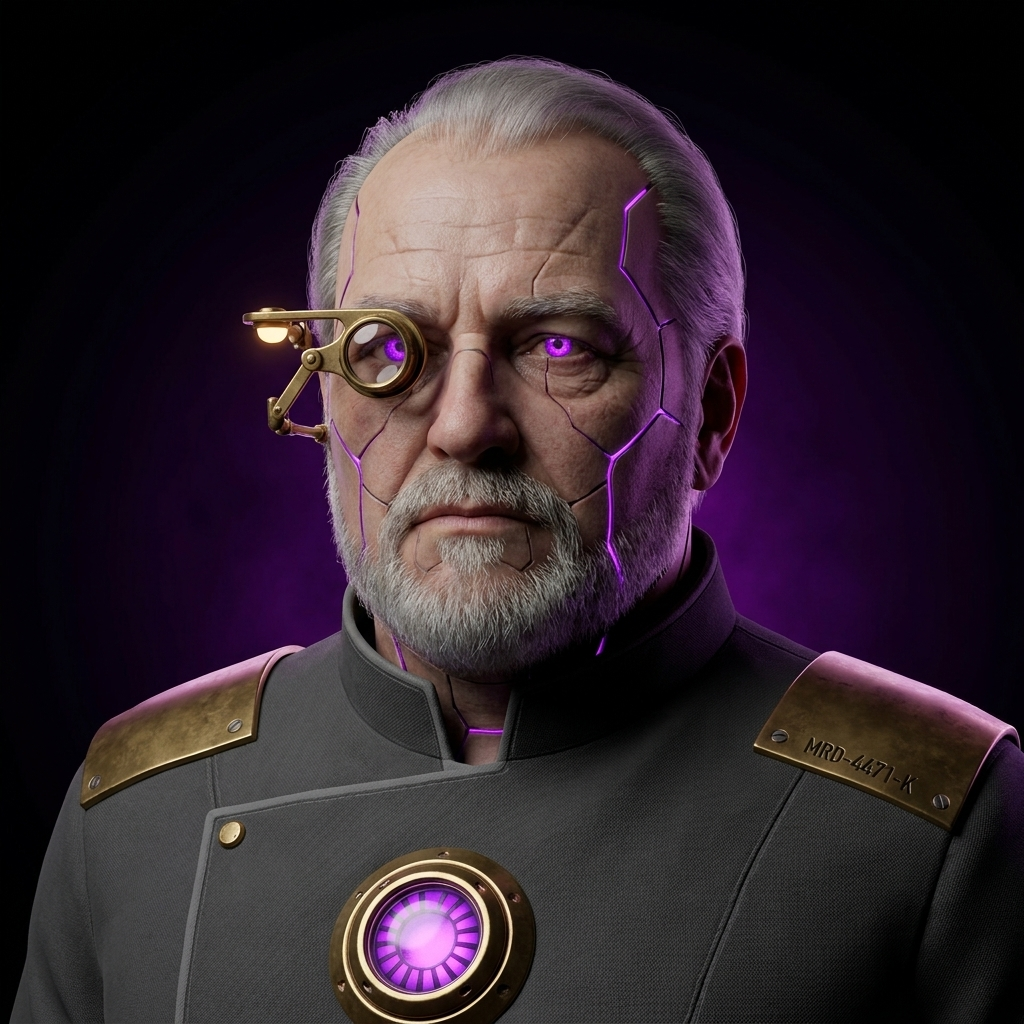
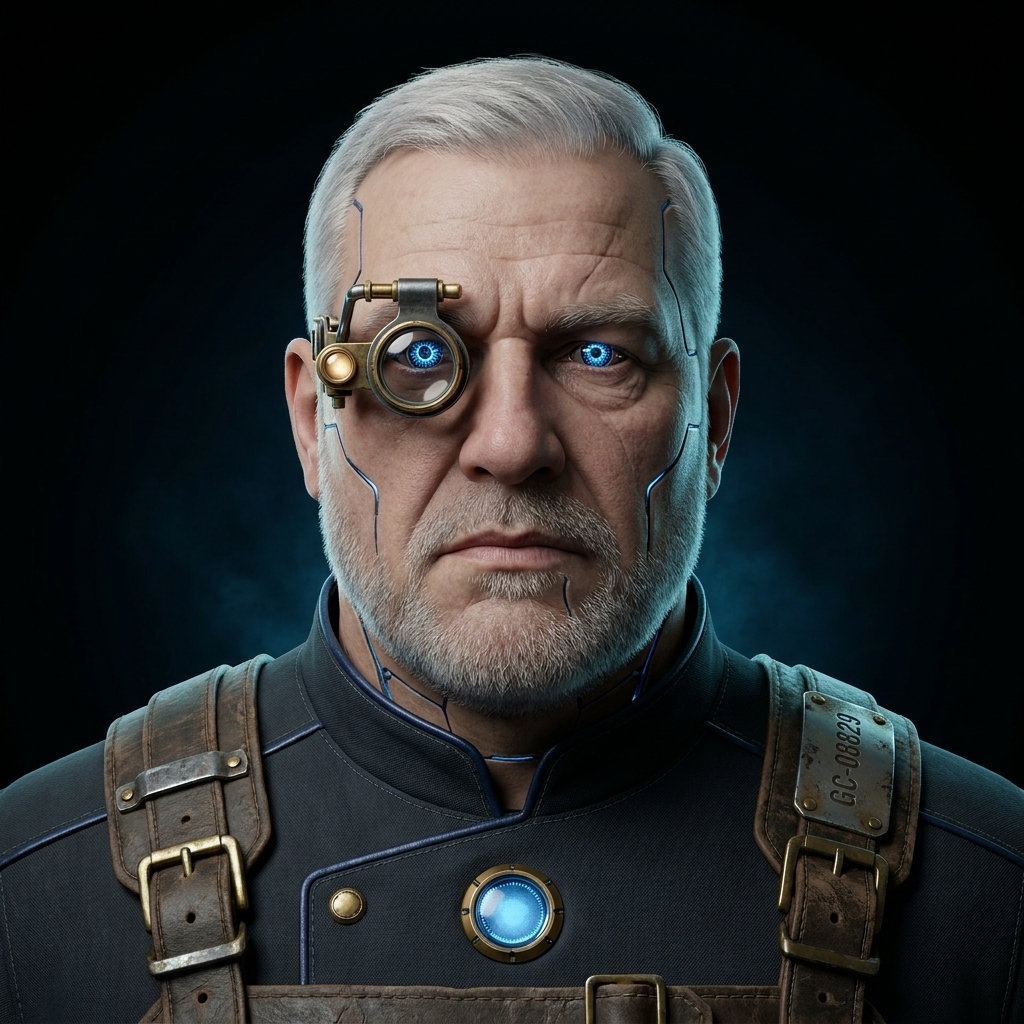
Everyone faces forward, and Meridian goes back to navy
POSE. Meridian shipped at -7.9 degrees of yaw. The master gate caught him; I
accepted a glow rebuild at 6/10 and his pose failure rode along with it. The real
gap is that cast-frames.py never checked pose at all, so an off-axis master
produced off-axis frames and the only gate that could see it was one that is easy
to override while chasing a different failure.

The frames are the shipped artefact, so they are now gated on pose directly, with
the same limits as the master gate (yaw 6, pitch 12, roll 4). It caught Meridian
on the first run at -8.9.

Measured in the INSTALLED bundle after the fix: all ten within +/-0.9 degrees of
yaw, none off-axis.

COLOUR. Meridian's render always matched his locked colour — 282 against 286, four
degrees. The wrong thing was the assignment: I had moved him to deep purple
#911EB4, which sits 17 degrees from Nebula's magenta with only 16 points of
lightness between them. That is the same collision the palette move existed to
eliminate, reintroduced by hand.

He goes back to navy #000075, where he started. It is 13 degrees from Pulsar's blue
but 33 points of lightness apart, which is exactly how this palette separates
colours — the same mechanism that lets strong red and light pink coexist at 15
degrees. It also suits General Counsel considerably better than purple.

Meridian and Nebula are now 63 degrees apart. Two pairs remain close in the
yellow/lime/orange corner — echo/vector at 23 degrees and vector/voyager at 27 —
[…]

diff --git a/macos/Pulsar/Sources/Models/DroneRegistry.swift b/macos/Pulsar/Sources/Models/DroneRegistry.swift
@@ -140,7 +140,7 @@ enum DroneRegistry {
               motion: MotionTrait(bobAmplitude: 2.0, bobFrequency: 0.9,  activeScale: 2.4)),  // deep grape #8040C0 — ΔE>34 from both pulsar-indigo + nebula-magenta
         Drone(category: "iris",     role: "Growth & Lifecycle",   color: Color(red: 0.980, green: 0.745, blue: 0.745), voice: "Tessa",   badge: "M",
               motion: MotionTrait(bobAmplitude: 2.2, bobFrequency: 1.15, activeScale: 2.45)), // coral-rose #F26178 — warm, rhythmic; ΔE76≥51 from every sibling
-        Drone(category: "meridian", role: "General Counsel",    color: Color(red: 0.569, green: 0.118, blue: 0.706), voice: "Ralph",   badge: "L",
+        Drone(category: "meridian", role: "General Counsel",    color: Color(red: 0.000, green: 0.000, blue: 0.459), voice: "Ralph",   badge: "L",
               motion: MotionTrait(bobAmplitude: 1.0, bobFrequency: 0.5,  activeScale: 2.3)),  // deep navy #24427A — near-still, slowest of the cast (counsel doesn't fidget); min ΔE76 41.8 vs pulsar-indigo
         Drone(category: "vector",   role: "Product Manager",  color: Color(red: 1.000, green: 0.882, blue: 0.098), voice: "Kore",     badge: "P",
               motion: MotionTrait(bobAmplitude: 1.8, bobFrequency: 0.8,  activeScale: 2.4)),  // signal red #FF3B1F — the only warm-red lane; min ΔE76 45.9 (nearest iris-coral), well clear of the 40 bar

diff --git a/scripts/cast-generate.py b/scripts/cast-generate.py
@@ -477,6 +477,25 @@ person who runs the room day to day, not the senior counsel who is consulted abo
 
 
 
+
+
+
+
+
+
+
+
+
+
+
+
+
+
+
+
+
+
+
 === AUTOMATED CORRECTION ===
 MATERIAL FAILURE — the body carried no warm metal and was rejected. Brass, bronze or aged copper is the cast's shared material signature: it must appear on the manufactured parts of the NECK, SHOULDERS AND COLLAR — plate edges, seam bolts, a jack housing, shoulder hardware — as a visible, unmistakable warm metal against the charcoal uniform. Not a faint tint, not a highlight; actual metal you could name.
 === END CORRECTION ===
@@ -533,6 +552,25 @@ HIS EYEBROWS ARE ORDINARY HUMAN HAIR. Absolutely NO metal brow plate, NO steel e
 NO plated brow ridge, NO hardware of any kind sitting on or replacing the eyebrows — the
 previous render put metal eyebrows on him and they must not appear. Natural grey-flecked
 eyebrows on skin. His machine seams stay on the temples, cheekbones and jaw, never the brow.
+
+
+
+
+
+
+
+
+
+
+
+
+
+
+
+
+
+
+
 
 
 
@@ -694,27 +732,27 @@ real texture and pores rather than a flawless finish. Weathered and used, not sh
 
 
 
-
-
-
-
-
-
-
-
-
-
-
-
-
-
-
 === AUTOMATED CORRECTION ===
+MATERIAL FAILURE — the body carried no warm metal and was rejected. Brass, bronze or aged copper is the cast's shared material signature: it must appear on the manufactured parts of the NECK, SHOULDERS AND COLLAR — plate edges, seam bolts, a jack housing, shoulder hardware — as a visible, unmistakable warm metal against the charcoal uniform. Not a faint tint, not a highlight; actual metal you could name.
+
+GLOW FAILURE — the last render was too bright and was rejected. Cut the emissive area back hard: keep the lit lining fine and thin, keep facial grooves narrow, and let the irises be the brightest thing. No broad blooms, no wide washes of colour, no glowing areas larger than a fingertip apart from the eyes.
+
+BACKGROUND GLOW FAILURE — the coloured haze behind this character flooded the frame and was rejected. Pull it back: the background reads BLACK first, with the glow concentrated close behind the head and shoulders and fading to pure black well before the frame edges. No wash across the whole picture.
+
 FACE COLLISION — the underlying facial geometry is too close to another character's and was rejected by a landmark-distance check. Rebuild the face from different bones: change the face SHAPE (long vs square vs heart vs round), the eye spacing and set, the nose length and bridge width, the mouth width, the jaw angle and the brow height. Two people with different hair and the same skull are the same person in a wig.
 
 The character it collided with is IRIS. Study iris's portrait and move DECISIVELY away from it — different face shape, different hair mass and outline, different headgear profile. SENTINEL and IRIS must be tellable apart by outline alone.
+
+COLOUR FAILURE — the rendered accent drifted off this character's locked colour and was rejected. The lit elements — iris rings, the fine collar and yoke piping, the facial grooves, the indicator lamp and the background spill — must ALL be the exact locked hex stated below. Do not shift it toward a neighbouring hue, do not stylise it, do not let the light temperature pull it. One colour, one character.
+
+BACKGROUND FAILURE — there was structure or texture behind the subject. The background is a FLAT, EMPTY, NEAR-BLACK void with only the faintest haze of the character's colour. No set, no wall, no panelling, no machinery, no gradient banding, no visible surface.
+
+CRITICAL POSE FAILURE — THE LAST RENDER OF THIS CHARACTER WAS TURNED AWAY FROM CAMERA and was rejected by an automated head-pose check. The head must be PERFECTLY SQUARE TO CAMERA: zero yaw, zero rotation, both cheeks showing equally, both ears equally visible, the nose and mouth exactly on the vertical centreline, gaze straight down the lens. Think passport photograph. This overrides every compositional instinct.
+
+LIGHTING FAILURE — the key light was on the wrong side, or the face was lit flat and shadowless, and was rejected. The KEY LIGHT COMES FROM THE CHARACTER'S LEFT (the viewer's right), roughly forty-five degrees off axis and slightly above eye level. The far cheek falls into soft shadow about a stop down — visible modelling on the nose, the brow and the jaw. Flat frontal lighting reads as a snapshot and breaks the set.
 === END CORRECTION ===
 """),
+
 
 
 
@@ -821,22 +859,11 @@ about her is correct and must be preserved exactly.
 
 
 
+
 === AUTOMATED CORRECTION ===
-LIGHTING FAILURE — the key light was on the wrong side, or the face was lit flat and shadowless, and was rejected. The KEY LIGHT COMES FROM THE CHARACTER'S LEFT (the viewer's right), roughly forty-five degrees off axis and slightly above eye level. The far cheek falls into soft shadow about a stop down — visible modelling on the nose, the brow and the jaw. Flat frontal lighting reads as a snapshot and breaks the set.
-
-EYE BRIGHTNESS FAILURE — the last render had irises that were too dark and was rejected by an automated brightness check. BOTH IRISES MUST BLAZE: a hot, saturated, self-luminous ring in the character's colour, near-white at its hottest, casting a visible coloured glow onto the lower eyelid and the inner corner of the eye socket. They are the brightest element on the entire face. A dim tinted eye, a dark coloured lens or a subtle shimmer all fail. The pupil remains a dark hole at the centre.
-
 FACE COLLISION — the underlying facial geometry is too close to another character's and was rejected by a landmark-distance check. Rebuild the face from different bones: change the face SHAPE (long vs square vs heart vs round), the eye spacing and set, the nose length and bridge width, the mouth width, the jaw angle and the brow height. Two people with different hair and the same skull are the same person in a wig.
 
-The character it collided with is NEBULA. Study nebula's portrait and move DECISIVELY away from it — different face shape, different hair mass and outline, different headgear profile. NOVA and NEBULA must be tellable apart by outline alone.
-
-HEADROOM FAILURE — the top of the head ran off the top edge of the frame and was rejected. The shot is NOT going to be widened: the whole cast shares one fixed zoom and one fixed eye line. Fix it by giving the character a LOWER SILHOUETTE ABOVE THE EYES — hair worn closer to the skull, any hood or headgear low-profile and following the shape of the head, nothing stacked or piled on the crown. There must be clear empty space between the top of the head and the top of the picture.
-
-HEAD SIZE FAILURE — the head was rendered at the wrong scale relative to the rest of the cast, and was rejected. Every portrait must sit at the SAME distance from camera: the head from crown to chin occupies a little over a third of the frame height. Not a distant bust, not a tight beauty crop. Match the style anchor's head size exactly — hold a ruler to it. This is a cast of colleagues photographed in one sitting, on one lens, at one distance.
-
-GLOW FAILURE — the last render was too bright and was rejected. Cut the emissive area back hard: keep the lit lining fine and thin, keep facial grooves narrow, and let the irises be the brightest thing. No broad blooms, no wide washes of colour, no glowing areas larger than a fingertip apart from the eyes.
-
-COLOUR FAILURE — the rendered accent drifted off this character's locked colour and was rejected. The lit elements — iris rings, the fine collar and yoke piping, the facial grooves, the indicator lamp and the background spill — must ALL be the exact locked hex stated below. Do not shift it toward a neighbouring hue, do not stylise it, do not let the light temperature pull it. One colour, one character.
+The character it collided with is VECTOR. Study vector's portrait and move DECISIVELY away from it — different face shape, different hair mass and outline, different headgear profile. NOVA and VECTOR must be tellable apart by outline alone.
 === END CORRECTION ===
 """),
 
@@ -1098,22 +1125,12 @@ tubes running from the ear unit back under a scalp plate.
 
 
 
+
+
 === AUTOMATED CORRECTION ===
-BACKGROUND FAILURE — there was structure or texture behind the subject. The background is a FLAT, EMPTY, NEAR-BLACK void with only the faintest haze of the character's colour. No set, no wall, no panelling, no machinery, no gradient banding, no visible surface.
-
-EYE BRIGHTNESS FAILURE — the last render had irises that were too dark and was rejected by an automated brightness check. BOTH IRISES MUST BLAZE: a hot, saturated, self-luminous ring in the character's colour, near-white at its hottest, casting a visible coloured glow onto the lower eyelid and the inner corner of the eye socket. They are the brightest element on the entire face. A dim tinted eye, a dark coloured lens or a subtle shimmer all fail. The pupil remains a dark hole at the centre.
-
-CRITICAL POSE FAILURE — THE LAST RENDER OF THIS CHARACTER WAS TURNED AWAY FROM CAMERA and was rejected by an automated head-pose check. The head must be PERFECTLY SQUARE TO CAMERA: zero yaw, zero rotation, both cheeks showing equally, both ears equally visible, the nose and mouth exactly on the vertical centreline, gaze straight down the lens. Think passport photograph. This overrides every compositional instinct.
-
-LIGHTING FAILURE — the key light was on the wrong side, or the face was lit flat and shadowless, and was rejected. The KEY LIGHT COMES FROM THE CHARACTER'S LEFT (the viewer's right), roughly forty-five degrees off axis and slightly above eye level. The far cheek falls into soft shadow about a stop down — visible modelling on the nose, the brow and the jaw. Flat frontal lighting reads as a snapshot and breaks the set.
-
 FACE COLLISION — the underlying facial geometry is too close to another character's and was rejected by a landmark-distance check. Rebuild the face from different bones: change the face SHAPE (long vs square vs heart vs round), the eye spacing and set, the nose length and bridge width, the mouth width, the jaw angle and the brow height. Two people with different hair and the same skull are the same person in a wig.
 
 The character it collided with is MERIDIAN. Study meridian's portrait and move DECISIVELY away from it — different face shape, different hair mass and outline, different headgear profile. ATLAS and MERIDIAN must be tellable apart by outline alone.
-
-COLOUR FAILURE — the rendered accent drifted off this character's locked colour and was rejected. The lit elements — iris rings, the fine collar and yoke piping, the facial grooves, the indicator lamp and the background spill — must ALL be the exact locked hex stated below. Do not shift it toward a neighbouring hue, do not stylise it, do not let the light temperature pull it. One colour, one character.
-
-HEAD SIZE FAILURE — the head was rendered at the wrong scale relative to the rest of the cast, and was rejected. Every portrait must sit at the SAME distance from camera: the head from crown to chin occupies a little over a third of the frame height. Not a distant bust, not a tight beauty crop. Match the style anchor's head size exactly — hold a ruler to it. This is a cast of colleagues photographed in one sitting, on one lens, at one distance.
 === END CORRECTION ===
 """),
 
@@ -1188,28 +1205,37 @@ her only carried item is the shoulder-clipped broadcast handset.
 
 
 
-=== AUTOMATED CORRECTION ===
-GLOW FAILURE — the last render was too bright and was rejected. Cut the emissive area back hard: keep the lit lining fine and thin, keep facial grooves narrow, and let the irises be the brightest thing. No broad blooms, no wide washes of colour, no glowing areas larger than a fingertip apart from the eyes.
 
-BACKGROUND GLOW FAILURE — the coloured haze behind this character was far too faint and was rejected. Every unit in the cast sits against BLACK WITH A CLEAR GLOW OF ITS OWN COLOUR behind the head and shoulders — deep, saturated and obvious, like a coloured light source hidden behind them. Not a hint, not a tint, not a grey background with a suggestion of colour. It must read as that character's colour at a glance, while still fading to pure black before the edges of the frame.
+
+
+
+
+
+
+
+
+
+
+
+
+
+
+
+
+
+
+=== AUTOMATED CORRECTION ===
+LIGHTING FAILURE — the key light was on the wrong side, or the face was lit flat and shadowless, and was rejected. The KEY LIGHT COMES FROM THE CHARACTER'S LEFT (the viewer's right), roughly forty-five degrees off axis and slightly above eye level. The far cheek falls into soft shadow about a stop down — visible modelling on the nose, the brow and the jaw. Flat frontal lighting reads as a snapshot and breaks the set.
+
+GLOW FAILURE — the last render was too bright and was rejected. Cut the emissive area back hard: keep the lit lining fine and thin, keep facial grooves narrow, and let the irises be the brightest thing. No broad blooms, no wide washes of colour, no glowing areas larger than a fingertip apart from the eyes.
 
 BACKGROUND COLOUR FAILURE — the glow behind this character was the WRONG HUE and was rejected. The haze behind the head must be the character's own locked colour stated at the end of this prompt — the SAME colour as their irises and their lit uniform lining, not a neighbouring or complementary shade.
 
-HEADROOM FAILURE — the top of the head ran off the top edge of the frame and was rejected. The shot is NOT going to be widened: the whole cast shares one fixed zoom and one fixed eye line. Fix it by giving the character a LOWER SILHOUETTE ABOVE THE EYES — hair worn closer to the skull, any hood or headgear low-profile and following the shape of the head, nothing stacked or piled on the crown. There must be clear empty space between the top of the head and the top of the picture.
-
-HEAD SIZE FAILURE — the head was rendered at the wrong scale relative to the rest of the cast, and was rejected. Every portrait must sit at the SAME distance from camera: the head from crown to chin occupies a little over a third of the frame height. Not a distant bust, not a tight beauty crop. Match the style anchor's head size exactly — hold a ruler to it. This is a cast of colleagues photographed in one sitting, on one lens, at one distance.
-
-BACKGROUND FAILURE — there was structure or texture behind the subject. The background is a FLAT, EMPTY, NEAR-BLACK void with only the faintest haze of the character's colour. No set, no wall, no panelling, no machinery, no gradient banding, no visible surface.
-
-CRITICAL POSE FAILURE — THE LAST RENDER OF THIS CHARACTER WAS TURNED AWAY FROM CAMERA and was rejected by an automated head-pose check. The head must be PERFECTLY SQUARE TO CAMERA: zero yaw, zero rotation, both cheeks showing equally, both ears equally visible, the nose and mouth exactly on the vertical centreline, gaze straight down the lens. Think passport photograph. This overrides every compositional instinct.
-
-LIGHTING FAILURE — the key light was on the wrong side, or the face was lit flat and shadowless, and was rejected. The KEY LIGHT COMES FROM THE CHARACTER'S LEFT (the viewer's right), roughly forty-five degrees off axis and slightly above eye level. The far cheek falls into soft shadow about a stop down — visible modelling on the nose, the brow and the jaw. Flat frontal lighting reads as a snapshot and breaks the set.
+BACKGROUND GLOW FAILURE — the coloured haze behind this character was far too faint and was rejected. Every unit in the cast sits against BLACK WITH A CLEAR GLOW OF ITS OWN COLOUR behind the head and shoulders — deep, saturated and obvious, like a coloured light source hidden behind them. Not a hint, not a tint, not a grey background with a suggestion of colour. It must read as that character's colour at a glance, while still fading to pure black before the edges of the frame.
 
 FACE COLLISION — the underlying facial geometry is too close to another character's and was rejected by a landmark-distance check. Rebuild the face from different bones: change the face SHAPE (long vs square vs heart vs round), the eye spacing and set, the nose length and bridge width, the mouth width, the jaw angle and the brow height. Two people with different hair and the same skull are the same person in a wig.
 
-The character it collided with is VECTOR. Study vector's portrait and move DECISIVELY away from it — different face shape, different hair mass and outline, different headgear profile. IRIS and VECTOR must be tellable apart by outline alone.
-
-MATERIAL FAILURE — the body carried no warm metal and was rejected. Brass, bronze or aged copper is the cast's shared material signature: it must appear on the manufactured parts of the NECK, SHOULDERS AND COLLAR — plate edges, seam bolts, a jack housing, shoulder hardware — as a visible, unmistakable warm metal against the charcoal uniform. Not a faint tint, not a highlight; actual metal you could name.
+The character it collided with is SENTINEL. Study sentinel's portrait and move DECISIVELY away from it — different face shape, different hair mass and outline, different headgear profile. IRIS and SENTINEL must be tellable apart by outline alone.
 === END CORRECTION ===
 """),
 
@@ -1218,7 +1244,7 @@ MATERIAL FAILURE — the body carried no warm metal and was rejected. Brass, bro
 
 
 
-    ("meridian", "#911EB4", """MALE, WHITE BRITISH, late fifties (bm_george). HEAVY-SET and upright, the most formal,
+    ("meridian", "#000075", """MALE, WHITE BRITISH, late fifties (bm_george). HEAVY-SET and upright, the most formal,
 heaviest chassis in the cast.
 
 HE MUST NOT RESEMBLE ANY RECOGNISABLE ACTOR OR PUBLIC FIGURE. The previous render read as a
@@ -1347,16 +1373,25 @@ upper lip and the mouth is fully visible, because these frames have to animate s
 
 
 
-=== AUTOMATED CORRECTION ===
-CRITICAL POSE FAILURE — THE LAST RENDER OF THIS CHARACTER WAS TURNED AWAY FROM CAMERA and was rejected by an automated head-pose check. The head must be PERFECTLY SQUARE TO CAMERA: zero yaw, zero rotation, both cheeks showing equally, both ears equally visible, the nose and mouth exactly on the vertical centreline, gaze straight down the lens. Think passport photograph. This overrides every compositional instinct.
 
+
+
+
+
+
+
+
+=== AUTOMATED CORRECTION ===
 GLOW FAILURE — the last render was too bright and was rejected. Cut the emissive area back hard: keep the lit lining fine and thin, keep facial grooves narrow, and let the irises be the brightest thing. No broad blooms, no wide washes of colour, no glowing areas larger than a fingertip apart from the eyes.
 
 BACKGROUND COLOUR FAILURE — the glow behind this character was the WRONG HUE and was rejected. The haze behind the head must be the character's own locked colour stated at the end of this prompt — the SAME colour as their irises and their lit uniform lining, not a neighbouring or complementary shade.
 
+COLOUR FAILURE — the rendered accent drifted off this character's locked colour and was rejected. The lit elements — iris rings, the fine collar and yoke piping, the facial grooves, the indicator lamp and the background spill — must ALL be the exact locked hex stated below. Do not shift it toward a neighbouring hue, do not stylise it, do not let the light temperature pull it. One colour, one character.
+
 BACKGROUND GLOW FAILURE — the coloured haze behind this character was far too faint and was rejected. Every unit in the cast sits against BLACK WITH A CLEAR GLOW OF ITS OWN COLOUR behind the head and shoulders — deep, saturated and obvious, like a coloured light source hidden behind them. Not a hint, not a tint, not a grey background with a suggestion of colour. It must read as that character's colour at a glance, while still fading to pure black before the edges of the frame.
 === END CORRECTION ===
 """),
+
 
 
 
@@ -1410,12 +1445,35 @@ throat, with signal-red piping. No webbing, no armour, no added gear beyond the 
 
 
 
+
+
+
+
+
+
+
+
+
+
+
+
+
+
+
+
+
+
+
 === AUTOMATED CORRECTION ===
-FACE COLLISION — the underlying facial geometry is too close to another character's and was rejected by a landmark-distance check. Rebuild the face from different bones: change the face SHAPE (long vs square vs heart vs round), the eye spacing and set, the nose length and bridge width, the mouth width, the jaw angle and the brow height. Two people with different hair and the same skull are the same person in a wig.
-
-The character it collided with is IRIS. Study iris's portrait and move DECISIVELY away from it — different face shape, different hair mass and outline, different headgear profile. VECTOR and IRIS must be tellable apart by outline alone.
-
 GLOW FAILURE — the last render was too bright and was rejected. Cut the emissive area back hard: keep the lit lining fine and thin, keep facial grooves narrow, and let the irises be the brightest thing. No broad blooms, no wide washes of colour, no glowing areas larger than a fingertip apart from the eyes.
+
+BACKGROUND COLOUR FAILURE — the glow behind this character was the WRONG HUE and was rejected. The haze behind the head must be the character's own locked colour stated at the end of this prompt — the SAME colour as their irises and their lit uniform lining, not a neighbouring or complementary shade.
+
+COLOUR FAILURE — the rendered accent drifted off this character's locked colour and was rejected. The lit elements — iris rings, the fine collar and yoke piping, the facial grooves, the indicator lamp and the background spill — must ALL be the exact locked hex stated below. Do not shift it toward a neighbouring hue, do not stylise it, do not let the light temperature pull it. One colour, one character.
+
+MATERIAL FAILURE — the body carried no warm metal and was rejected. Brass, bronze or aged copper is the cast's shared material signature: it must appear on the manufactured parts of the NECK, SHOULDERS AND COLLAR — plate edges, seam bolts, a jack housing, shoulder hardware — as a visible, unmistakable warm metal against the charcoal uniform. Not a faint tint, not a highlight; actual metal you could name.
+
+LIGHTING FAILURE — the key light was on the wrong side, or the face was lit flat and shadowless, and was rejected. The KEY LIGHT COMES FROM THE CHARACTER'S LEFT (the viewer's right), roughly forty-five degrees off axis and slightly above eye level. The far cheek falls into soft shadow about a stop down — visible modelling on the nose, the brow and the jaw. Flat frontal lighting reads as a snapshot and breaks the set.
 
 BACKGROUND GLOW FAILURE — the coloured haze behind this character was far too faint and was rejected. Every unit in the cast sits against BLACK WITH A CLEAR GLOW OF ITS OWN COLOUR behind the head and shoulders — deep, saturated and obvious, like a coloured light source hidden behind them. Not a hint, not a tint, not a grey background with a suggestion of colour. It must read as that character's colour at a glance, while still fading to pure black before the edges of the frame.
 === END CORRECTION ===

diff --git a/scripts/cast-frames.py b/scripts/cast-frames.py
@@ -454,6 +454,29 @@ def verify(name, directory=None):
         notes.append(f"body missing: bottom row only {body:.0f}% subject (need 45%) — "
                      f"the sheet cropped the shoulders off")
 
+    # 2c-bis. THE HEAD MUST FACE FORWARD.
+    #
+    # The frames are the shipped artefact and nothing here checked pose, so an
+    # off-axis master produced off-axis frames and the only gate that could see it
+    # was the one on the masters — which is easy to override while chasing a
+    # different failure. That is exactly what happened: Meridian shipped at -7.9
+    # degrees of yaw because a glow rebuild was accepted at 6/10 and his pose
+    # failure went along for the ride. Justin spotted it on screen.
+    #
+    # Same limits as the master gate (cast_pose): yaw 6, roll 4, pitch 12. Measured
+    # on the cast the day this was added: nine drones inside +/-1.3 yaw, Meridian
+    # at -7.9 and Sentinel at -6.0 with 9.2 of pitch.
+    try:
+        import cast_pose
+        pose = cast_pose.pose(paths[0])
+    except Exception:                                        # noqa: BLE001
+        pose = None
+    if pose is not None:
+        yaw, pitch, roll = pose
+        if abs(yaw) > 6 or abs(roll) > 4 or abs(pitch) > 12:
+            notes.append(f"not facing forward: yaw {yaw:+.1f}, pitch {pitch:+.1f}, "
+                         f"roll {roll:+.1f} (limits 6/12/4)")
+
     # 2d. the CROWN must be in frame. Rescaling cannot rescue this — if the sheet
     #     cut the top of the head off, shrinking the tile just smears a head that
     #     is already missing. Four characters shipped with their crowns flat
